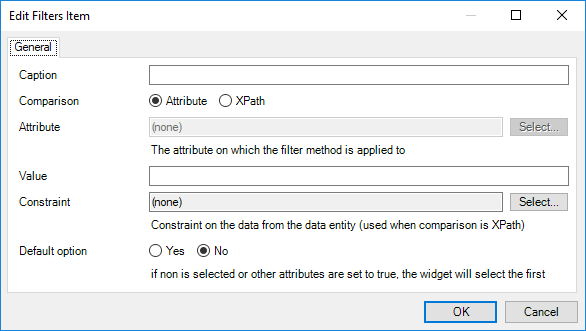
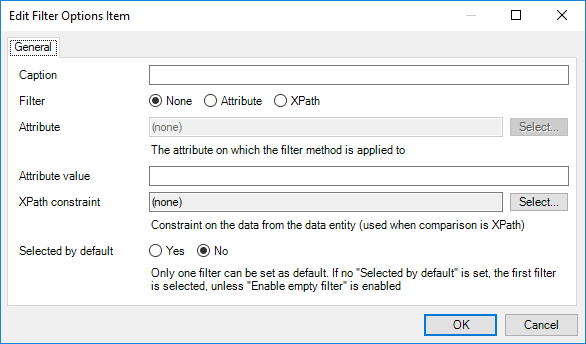
Update assets

diff --git a/README.md b/README.md
@@ -4,7 +4,7 @@
 [![codecov](https://codecov.io/gh/mendixlabs/listview-filter/branch/master/graph/badge.svg)](https://codecov.io/gh/mendixlabs/listview-filter)
 
 # Drop-down filter
-Filter mendix list views using a drop-down
+Enable users to filter a list view at run time, with various options that can be selected from a drop-down
 
 ## Features
 * Filter items by an attribute
@@ -21,9 +21,10 @@ Mendix 7.6
 ![Demo](assets/Demo.gif)
 
 ## Usage
-The list view entity in the `Data source` tab is a required property.
+Place the Drop-down filter widget above a list view.
+Provide the entity name of the target list view in the `General` tab.
 
-![Data source](assets/Datasource.png)
+![General](assets/General.png)
 
 Add a new filter with a caption and choose comparison type.
 
@@ -31,8 +32,12 @@ Add a new filter with a caption and choose comparison type.
 
 When filtering by `Attribute`, select an attribute and input a value to filter by
 When filtering by `XPath`, input a constraint to filter by.
+`None` is for an empty option which resets the filter then selected.
 
-![Constraint](assets/Constraint.png)
+**NB: The `None` filter option should always appear at the top of the list and it does not require a caption.** 
+**Also to note, only one empty filter option should be selected.**
+
+![XPathConstraint](assets/XPathConstraint.png)
 
 ## Issues, suggestions and feature requests
 Please report issues at [https://github.com/mendixlabs/listview-filter/issues](https://github.com/mendixlabs/listview-filter/issues).
